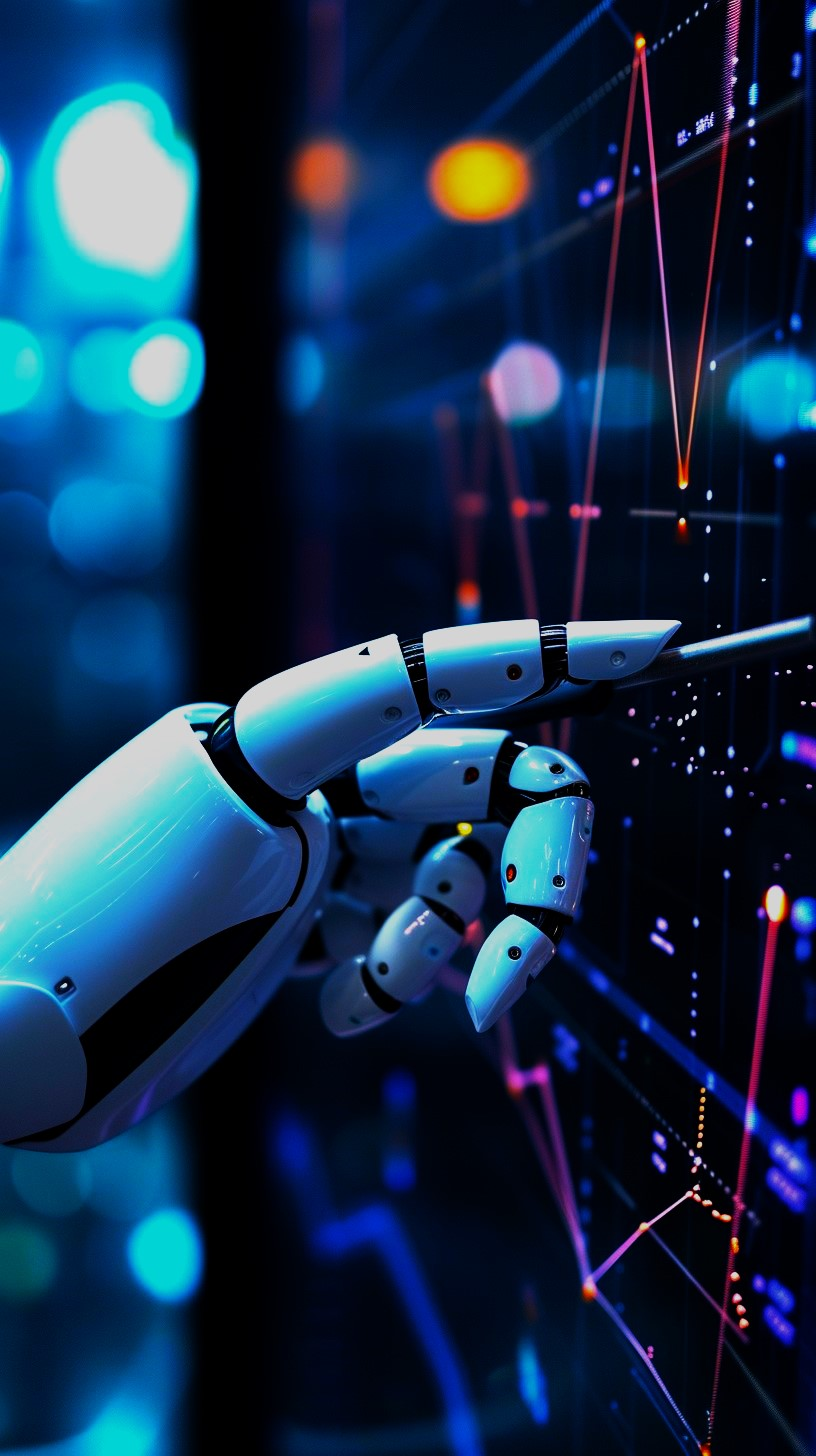
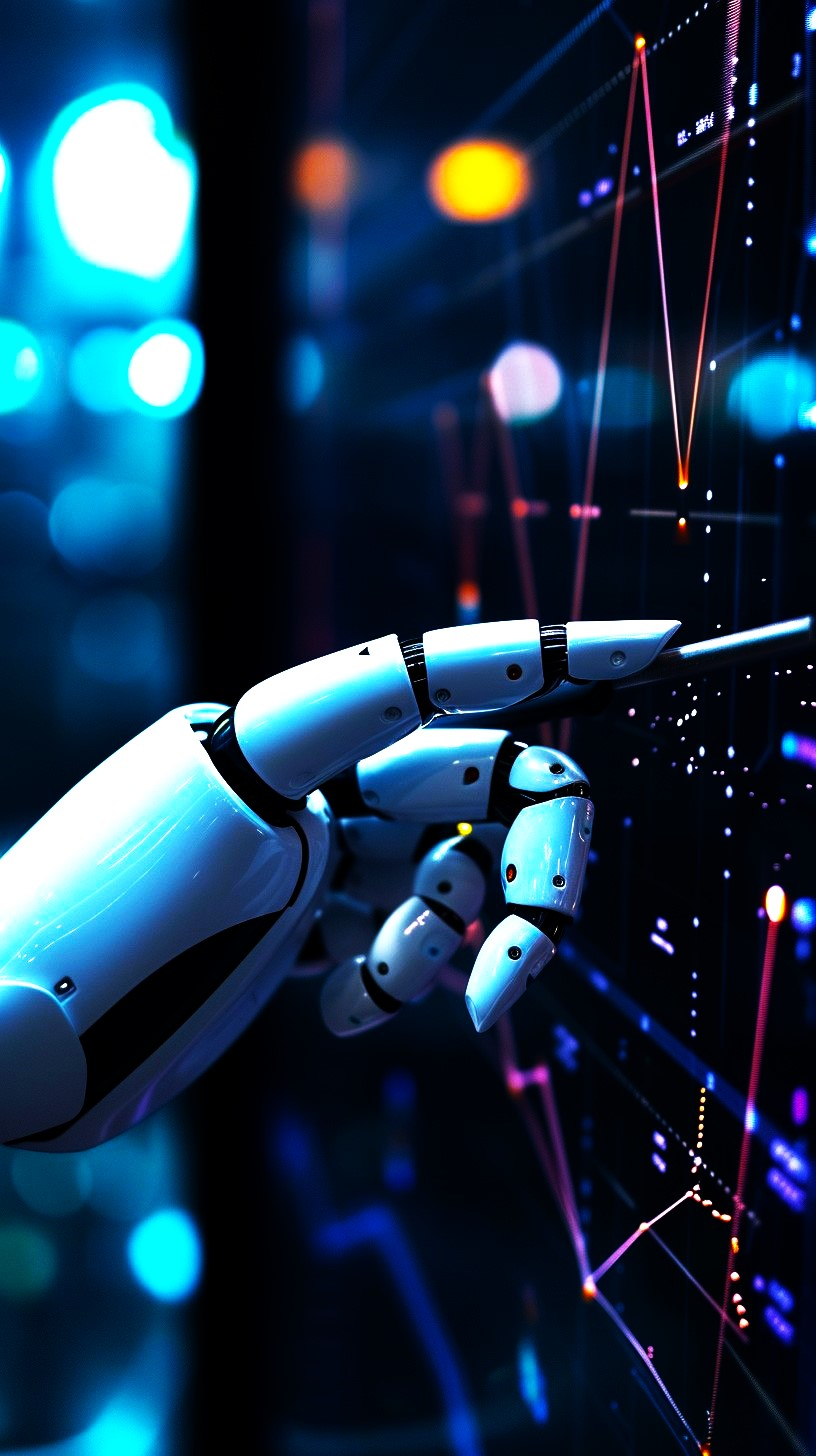
go

diff --git a/src/index.css b/src/index.css
@@ -1467,7 +1467,7 @@ background-size: cover;
   background-repeat: no-repeat;
 }
 .bg-um{
-  background-image: url(assets/wave.jpg);
+  background-image: url(assets/StockCake-Glowing_Wireframe_Reality-3326260-standard.jpg);
   background-size: cover;
   background-position: center;
   background-repeat: no-repeat;
